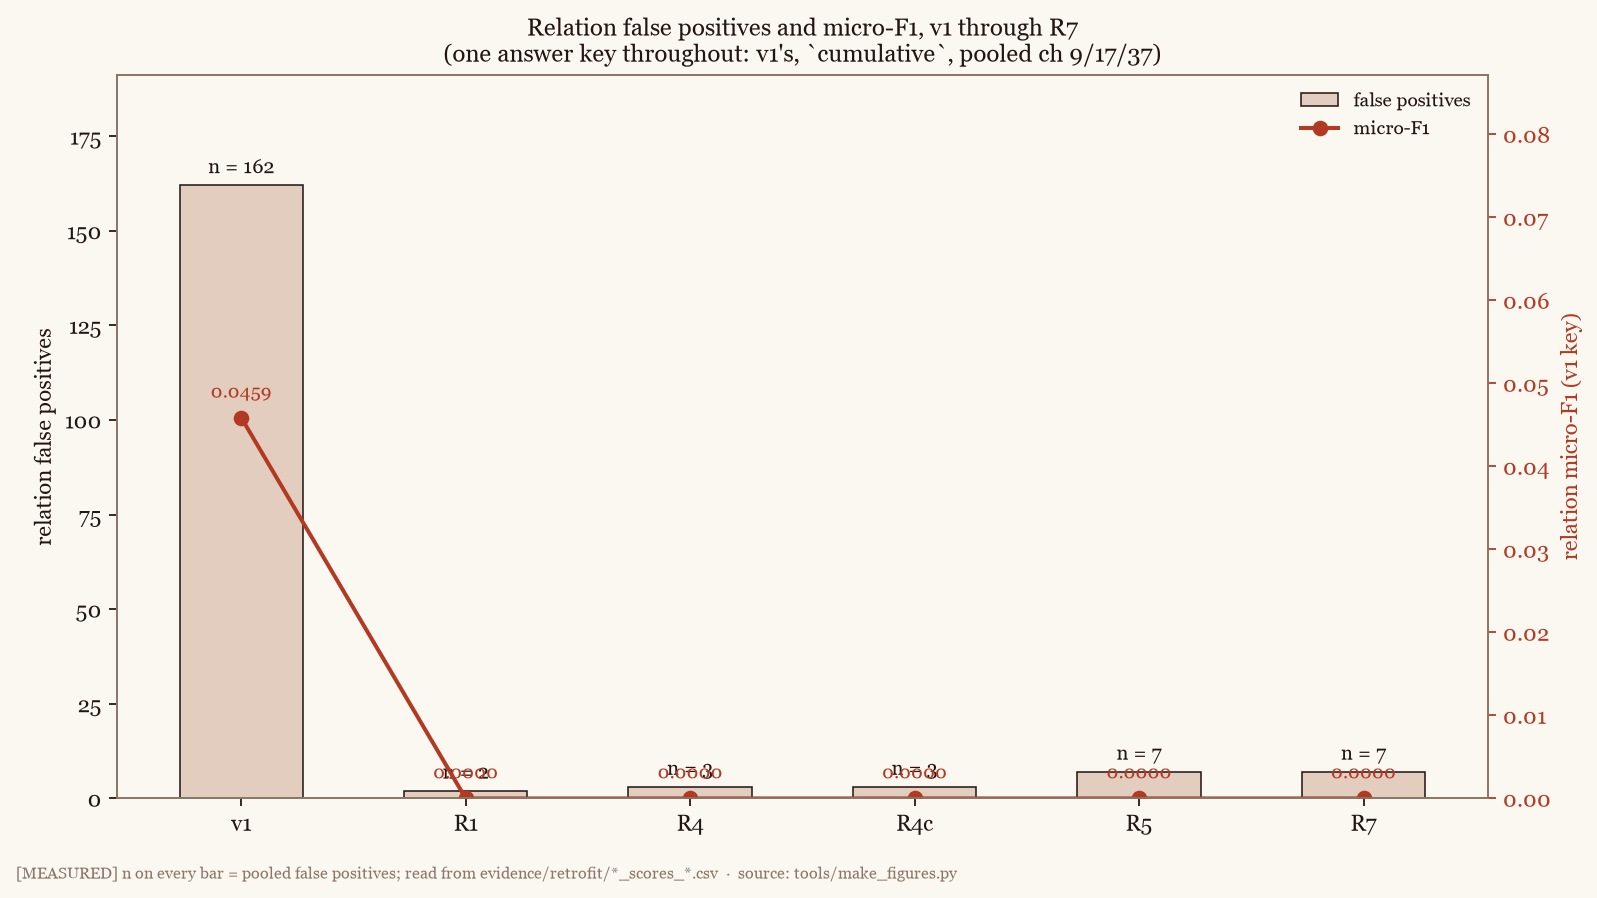
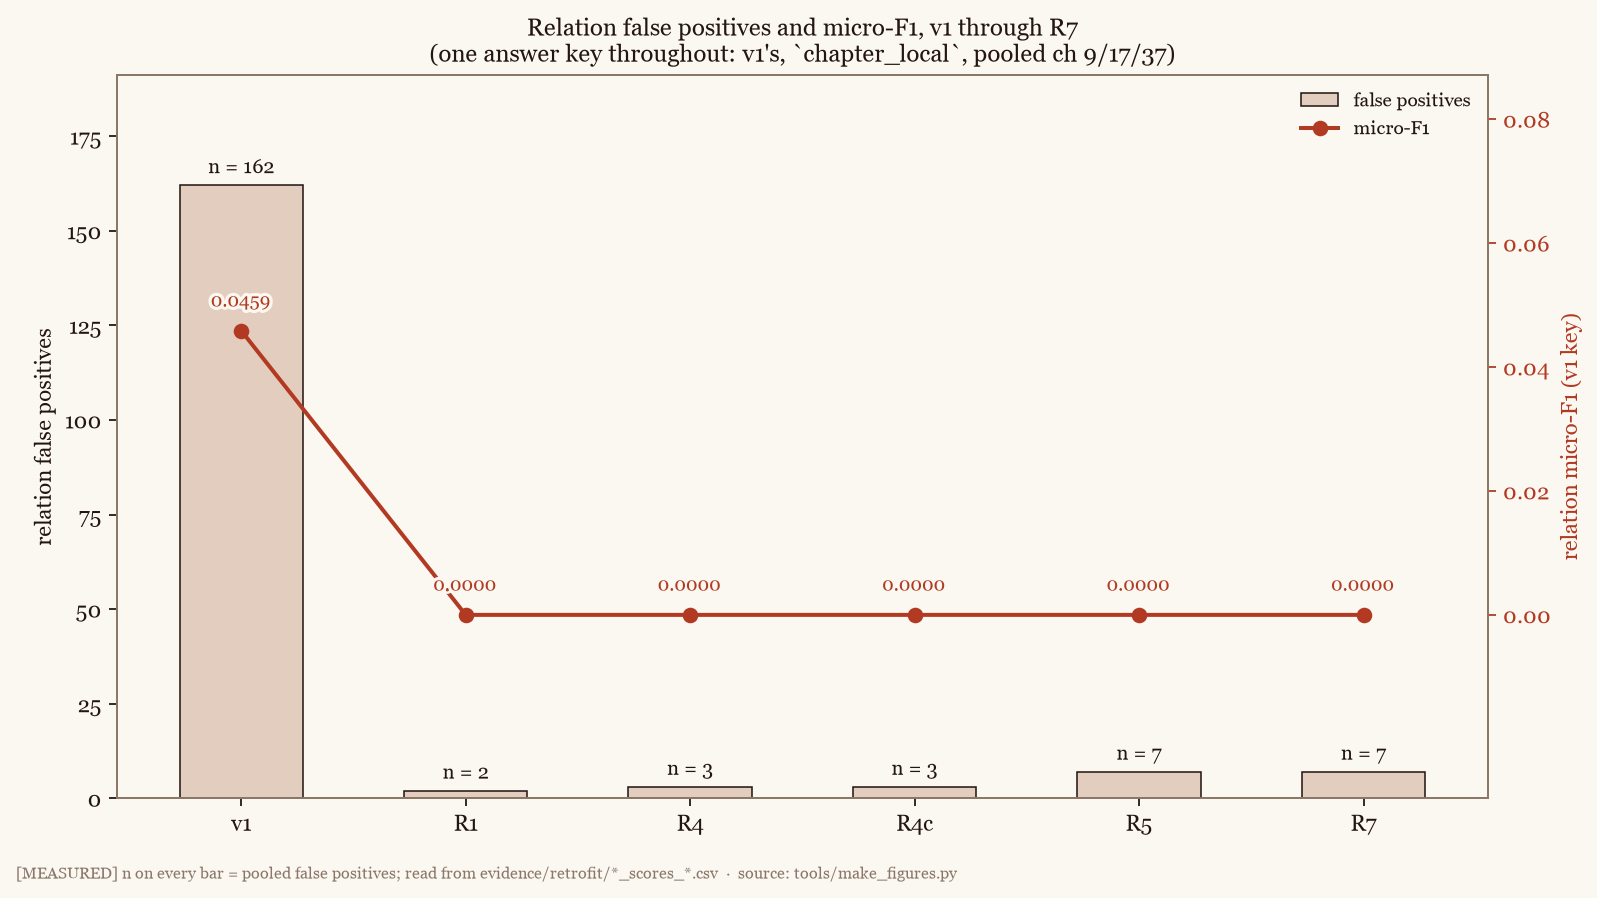
fix(figures): phase_timeline label collisions, and a stale variant in its title
Five of the six F1 values are exactly 0.0000 and five of the six bars are 7 or
shorter, so both series crowded the axis floor and the "0.0000" labels sat on
top of the "n = ..." bar labels. The right-hand axis is now padded below zero,
exactly as the left-hand axis is already padded above its tallest bar, which
lifts the F1 line clear of the bar tops; its ticks are set explicitly from 0 up
so no negative value is ever printed. The F1 labels also get a paper-coloured
halo, because the steep v1 -> R1 segment ran through the leading digit of R1's
label.

Also corrects the title, noticed while fixing the above: it said the points
were the `cumulative` variant when the data has been `chapter_local` since the
counts were fixed to reproduce the published 162 false positives and 0.045872.
It now reads the variant off VARIANT, so the two cannot drift again.

Figure only; phase_timeline.csv regenerates byte-identical.

diff --git a/tools/make_figures.py b/tools/make_figures.py
@@ -38,6 +38,7 @@ from typing import Any
 import matplotlib
 
 matplotlib.use("Agg")  # no display on this machine; never open a window
+import matplotlib.patheffects as pe  # noqa: E402
 import matplotlib.pyplot as plt  # noqa: E402
 import numpy as np  # noqa: E402
 
@@ -507,15 +508,26 @@ def fig_phase_timeline() -> None:
 
     ax2 = ax.twinx()
     ax2.plot(x, f1s, color=ACCENT, marker="o", linewidth=1.8, label="micro-F1")
+    # Five of the six F1 values are exactly 0.0000 and five of the six bars are 7 or
+    # shorter, so both series crowd the axis floor and their labels collided (measured by
+    # looking at the PNG). Headroom UNDER the F1 line separates them: the bottom of the
+    # right-hand axis is padded below zero, exactly as the left-hand axis is padded above
+    # its tallest bar. The padding is blank space, not a claim that F1 can be negative —
+    # the ticks are set explicitly from 0 up so no negative value is ever printed.
+    top = max(max(f1s) * 1.9, 0.08)
+    ax2.set_ylim(-top * 0.34, top)
+    ax2.set_yticks([t for t in np.arange(0, top + 1e-9, 0.02)])
     for xf, vf in zip(x, f1s, strict=True):
-        ax2.annotate(f"{vf:.4f}", (float(xf), vf), textcoords="offset points", xytext=(0, 9),
-                     ha="center", fontsize=8.5, color=ACCENT)
+        # A paper-coloured halo: the steep v1 -> R1 segment otherwise runs through the
+        # leading digit of R1's label. Cheaper and more robust than nudging one label.
+        ax2.annotate(f"{vf:.4f}", (float(xf), vf), textcoords="offset points", xytext=(0, 11),
+                     ha="center", fontsize=8.5, color=ACCENT, zorder=5,
+                     path_effects=[pe.withStroke(linewidth=3, foreground=PAPER)])
     ax2.set_ylabel("relation micro-F1 (v1 key)", color=ACCENT)
     ax2.tick_params(axis="y", colors=ACCENT)
-    ax2.set_ylim(0, max(max(f1s) * 1.9, 0.08))
 
     ax.set_title("Relation false positives and micro-F1, v1 through R7\n"
-                 "(one answer key throughout: v1's, `cumulative`, pooled ch 9/17/37)",
+                 f"(one answer key throughout: v1's, `{VARIANT}`, pooled ch 9/17/37)",
                  fontsize=11)
     h1, l1 = ax.get_legend_handles_labels()
     h2, l2 = ax2.get_legend_handles_labels()
